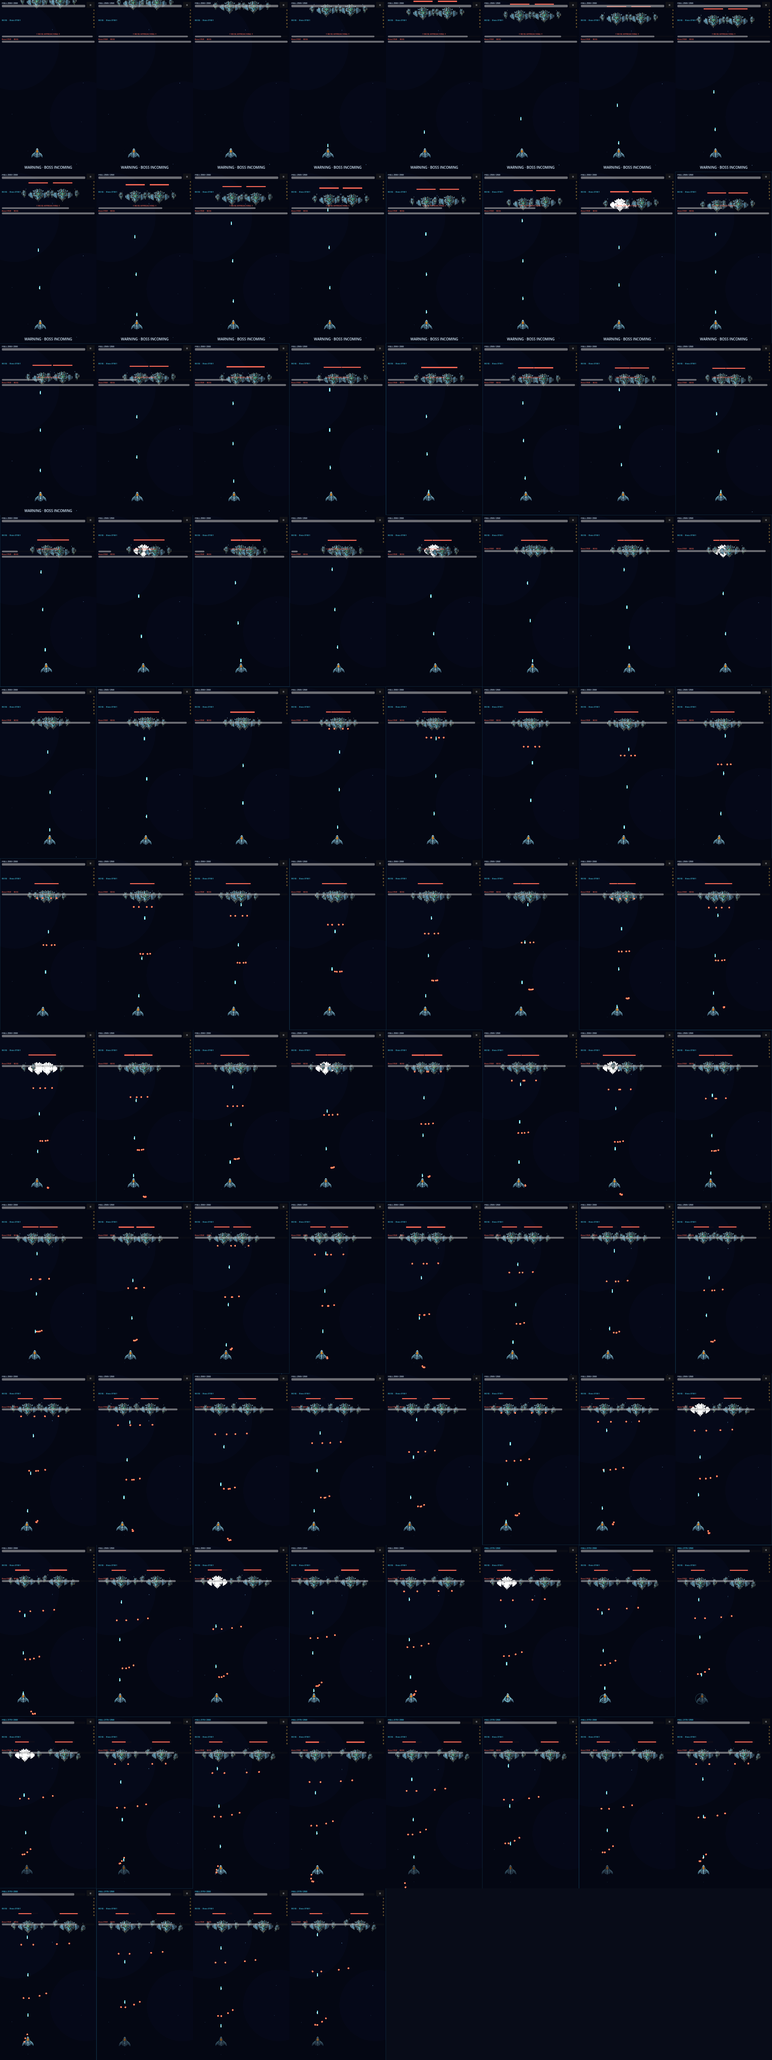
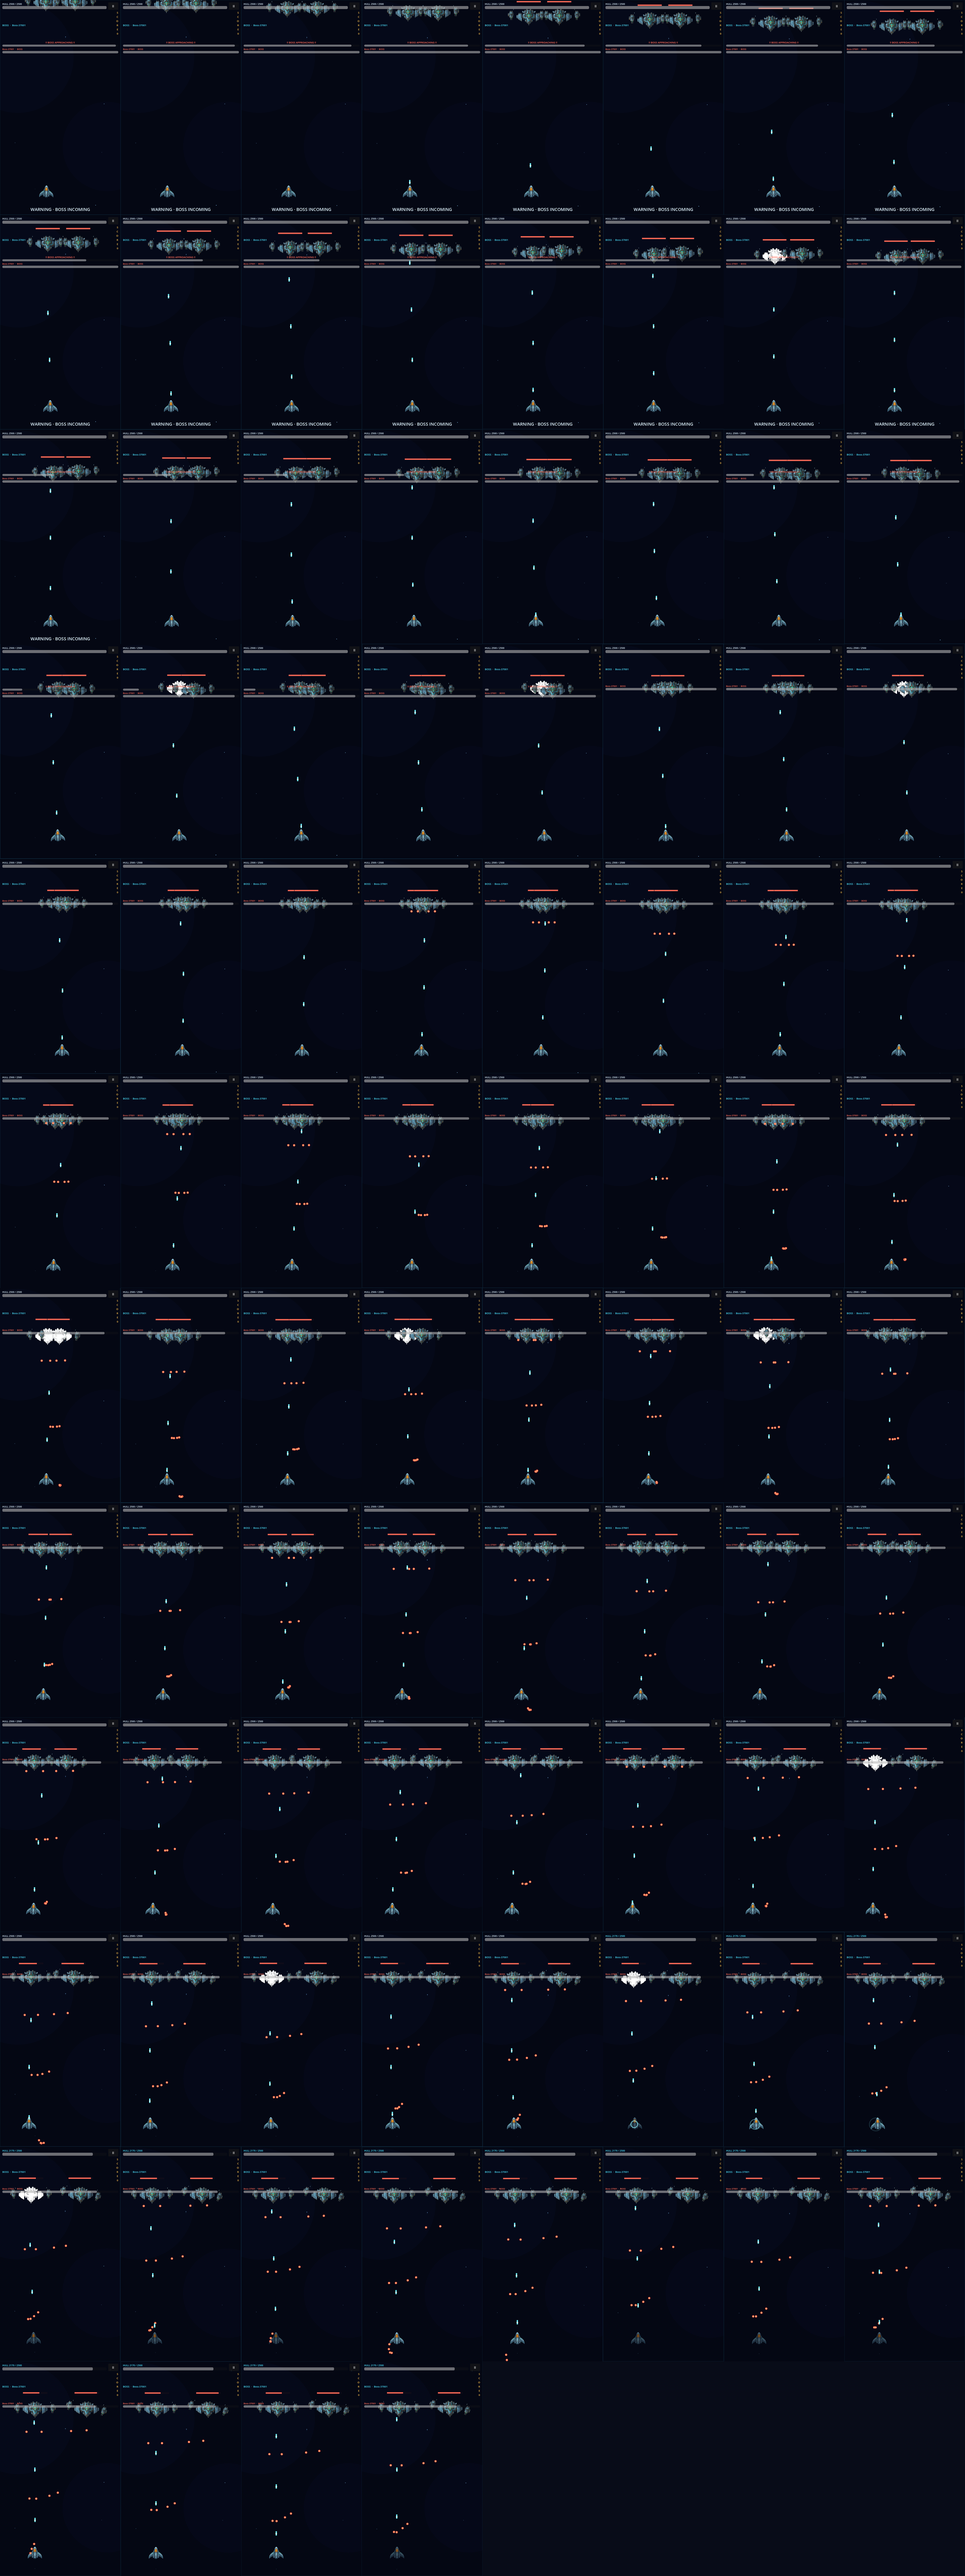
chore(motion): refresh ANIM-B frame evidence [skip ci]

diff --git a/motion/B/README.md b/motion/B/README.md
@@ -8,13 +8,14 @@ in order, so the motion can be read without playing the GIF.
 - Variant: ANIM-B - layered animation (ship body + glow layer, boss body/gun-l/gun-r/core, guns track the ship)
 - Art source: package
 - Capture rate: 12 fps
-- Frame width: 288px
+- Frame width: 360px
 
 | Segment | Frames | Simulated seconds | GIF | Frame sheet |
 |---|---:|---:|---|---|
 | boss | 92 | 7.58 | `boss.gif` | `boss-sheet.png` |
 | flight | 32 | 2.58 | `flight.gif` | `flight-sheet.png` |
 | hangar | 37 | 3.00 | `hangar.gif` | `hangar-sheet.png` |
+| turret | 42 | 3.42 | `turret.gif` | `turret-sheet.png` |
 
 Scenes: `hangar` = ship idle animation (float, breathing shadow, glow pulse,
 idle flame), `flight` = ship gliding and firing (banking, engine plume), `boss`
